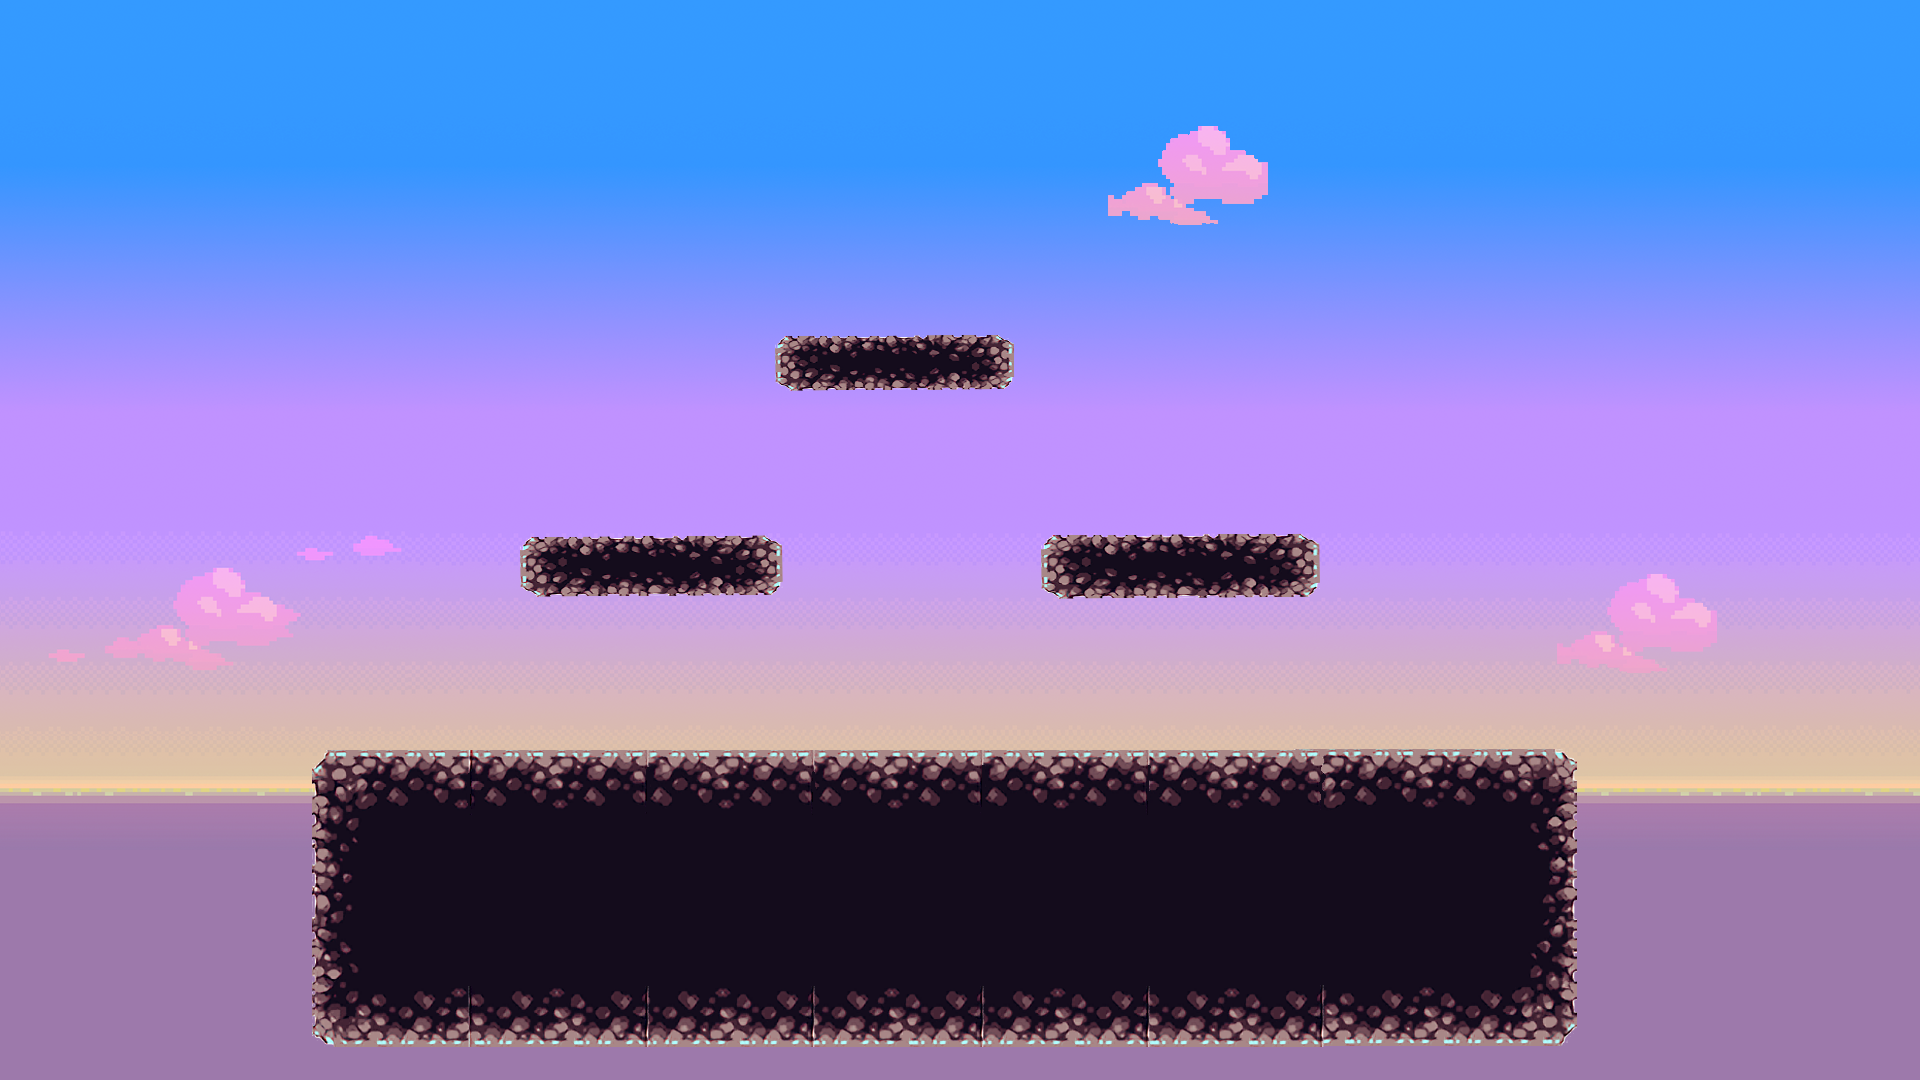
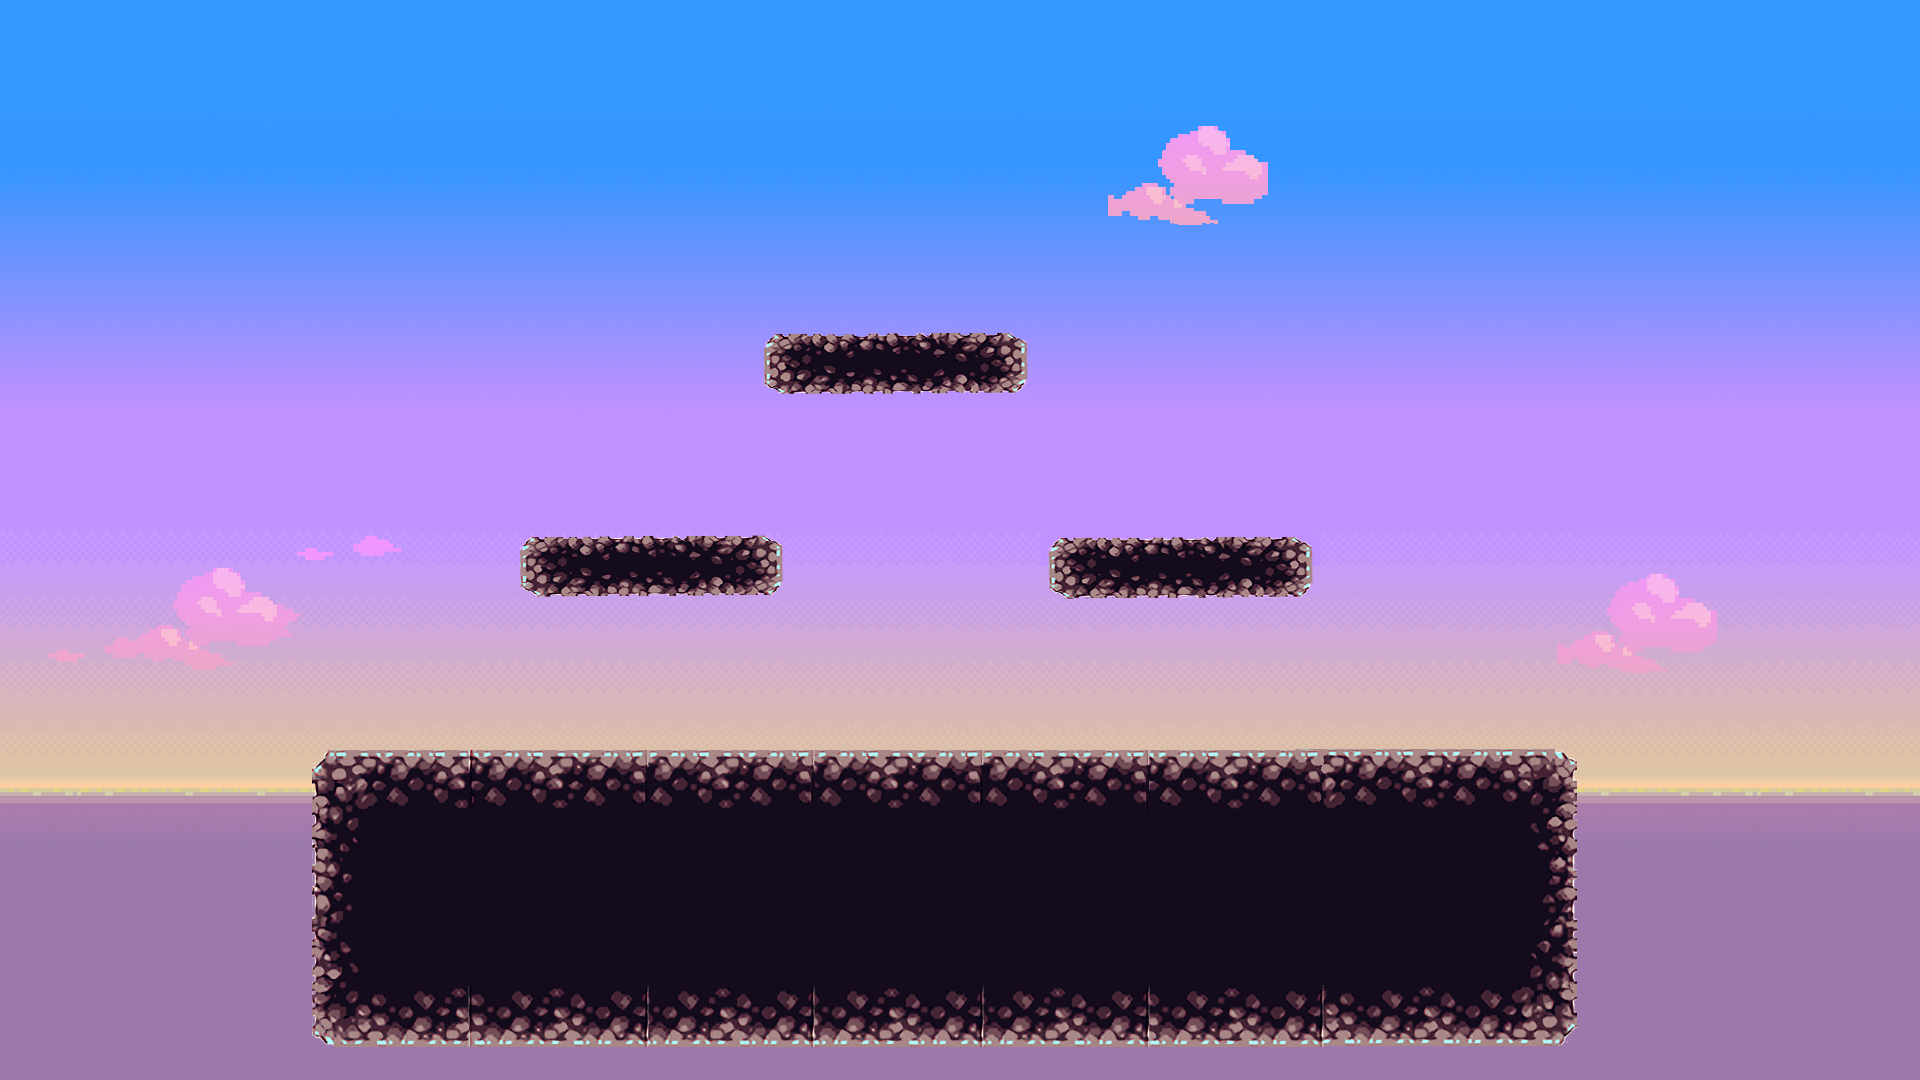
physique des 3 blocs

Changed region(s): [[0.5312, 0.4889, 0.6875, 0.55], [0.375, 0.3056, 0.5312, 0.3667]]

diff --git a/main.py b/main.py
@@ -215,6 +215,10 @@ while on:
 
         bloc_1 = pygame.Rect(521, 537, 260, 58)
         pygame.draw.rect(screen, red, bloc_1)
+        bloc_2 = pygame.Rect(1050, 539, 260, 58)
+        pygame.draw.rect(screen, red, bloc_2)
+        bloc_3 = pygame.Rect(765, 335, 260, 58)
+        pygame.draw.rect(screen, red, bloc_3)
 
         keys = pygame.key.get_pressed()
         for event in pygame.event.get():
@@ -348,14 +352,106 @@ while on:
         if pos_j2.x >= WINDOW_X-110:
             pos_j2 = pos_j2.move(-SIDE_MOVE, 0)
 
-        if pos_j1.x >= 521 and pos_j1.x <= 521+260 and pos_j1.y <= 537+58 and pos_j1.y >= 537:
-            pos_j1.y = 537+59
-        if pos_j1.x >= 521 and pos_j1.x <= 521+260 and pos_j1.y+84 <= 537+58 and pos_j1.y+84 >= 537:
-            pos_j1.y = 536-84
+        """bloc 1"""
+        if pos_j1.x+42 > bloc_1.x and pos_j1.x+42 < bloc_1.x+10 and pos_j1.y < bloc_1.y+58 and pos_j1.y+84 > bloc_1.y:
+            pos_j1.x = bloc_1.x-43
+
+        if pos_j1.x < bloc_1.x+260 and pos_j1.x > bloc_1.x+250 and pos_j1.y < bloc_1.y+58 and pos_j1.y+84 > bloc_1.y:
+            pos_j1.x = bloc_1.x+261
+
+        if pos_j1.x+42 >= bloc_1.x and pos_j1.x <= bloc_1.x+260 and pos_j1.y <= bloc_1.y+58 and pos_j1.y >= bloc_1.y:
+            pos_j1.y = bloc_1.y+59
+            jump_j1 = False
+
+        if pos_j1.x+42 >= bloc_1.x and pos_j1.x <= bloc_1.x+260 and pos_j1.y+84 <= bloc_1.y+58 and pos_j1.y+84 >= bloc_1.y:
+            pos_j1.y = bloc_1.y-84
             coef_jump_j1 = float(1)
             pass_j1 = True
             jump_j1 = True
+        
+        if pos_j2.x+42 > bloc_1.x and pos_j2.x+42 < bloc_1.x+10 and pos_j2.y < bloc_1.y+58 and pos_j2.y+84 > bloc_1.y:
+            pos_j2.x = bloc_1.x-43
 
+        if pos_j2.x < bloc_1.x+260 and pos_j2.x > bloc_1.x+250 and pos_j2.y < bloc_1.y+58 and pos_j2.y+84 > bloc_1.y:
+            pos_j2.x = bloc_1.x+261
+
+        if pos_j2.x+42 >= bloc_1.x and pos_j2.x <= bloc_1.x+260 and pos_j2.y <= bloc_1.y+58 and pos_j2.y >= bloc_1.y:
+            pos_j2.y = bloc_1.y+59
+            jump_j2 = False
+
+        if pos_j2.x+42 >= bloc_1.x and pos_j2.x <= bloc_1.x+260 and pos_j2.y+84 <= bloc_1.y+58 and pos_j2.y+84 >= bloc_1.y:
+            pos_j2.y = bloc_1.y-84
+            coef_jump_j2 = float(1)
+            pass_j2 = True
+            jump_j2 = True
+
+
+        """bloc 2"""
+        if pos_j1.x+42 > bloc_2.x and pos_j1.x+42 < bloc_2.x+10 and pos_j1.y < bloc_2.y+58 and pos_j1.y+84 > bloc_2.y:
+            pos_j1.x = bloc_2.x-43
+
+        if pos_j1.x < bloc_2.x+260 and pos_j1.x > bloc_2.x+250 and pos_j1.y < bloc_2.y+58 and pos_j1.y+84 > bloc_2.y:
+            pos_j1.x = bloc_2.x+261
+
+        if pos_j1.x+42 >= bloc_2.x and pos_j1.x <= bloc_2.x+260 and pos_j1.y <= bloc_2.y+58 and pos_j1.y >= bloc_2.y:
+            pos_j1.y = bloc_2.y+59
+            jump_j1 = False
+
+        if pos_j1.x+42 >= bloc_2.x and pos_j1.x <= bloc_2.x+260 and pos_j1.y+84 <= bloc_2.y+58 and pos_j1.y+84 >= bloc_2.y:
+            pos_j1.y = bloc_2.y-84
+            coef_jump_j1 = float(1)
+            pass_j1 = True
+            jump_j1 = True
+        
+        if pos_j2.x+42 > bloc_2.x and pos_j2.x+42 < bloc_2.x+10 and pos_j2.y < bloc_2.y+58 and pos_j2.y+84 > bloc_2.y:
+            pos_j2.x = bloc_2.x-43
+
+        if pos_j2.x < bloc_2.x+260 and pos_j2.x > bloc_2.x+250 and pos_j2.y < bloc_2.y+58 and pos_j2.y+84 > bloc_2.y:
+            pos_j2.x = bloc_2.x+261
+
+        if pos_j2.x+42 >= bloc_2.x and pos_j2.x <= bloc_2.x+260 and pos_j2.y <= bloc_2.y+58 and pos_j2.y >= bloc_2.y:
+            pos_j2.y = bloc_2.y+59
+            jump_j2 = False
+
+        if pos_j2.x+42 >= bloc_2.x and pos_j2.x <= bloc_2.x+260 and pos_j2.y+84 <= bloc_2.y+58 and pos_j2.y+84 >= bloc_2.y:
+            pos_j2.y = bloc_2.y-84
+            coef_jump_j2 = float(1)
+            pass_j2 = True
+            jump_j2 = True
+        
+
+        """bloc 3"""
+        if pos_j1.x+42 > bloc_3.x and pos_j1.x+42 < bloc_3.x+10 and pos_j1.y < bloc_3.y+58 and pos_j1.y+84 > bloc_3.y:
+            pos_j1.x = bloc_3.x-43
+
+        if pos_j1.x < bloc_3.x+260 and pos_j1.x > bloc_3.x+250 and pos_j1.y < bloc_3.y+58 and pos_j1.y+84 > bloc_3.y:
+            pos_j1.x = bloc_3.x+261
+
+        if pos_j1.x+42 >= bloc_3.x and pos_j1.x <= bloc_3.x+260 and pos_j1.y <= bloc_3.y+58 and pos_j1.y >= bloc_3.y:
+            pos_j1.y = bloc_3.y+59
+            jump_j1 = False
+
+        if pos_j1.x+42 >= bloc_3.x and pos_j1.x <= bloc_3.x+260 and pos_j1.y+84 <= bloc_3.y+58 and pos_j1.y+84 >= bloc_3.y:
+            pos_j1.y = bloc_3.y-84
+            coef_jump_j1 = float(1)
+            pass_j1 = True
+            jump_j1 = True
+        
+        if pos_j2.x+42 > bloc_3.x and pos_j2.x+42 < bloc_3.x+10 and pos_j2.y < bloc_3.y+58 and pos_j2.y+84 > bloc_3.y:
+            pos_j2.x = bloc_3.x-43
+
+        if pos_j2.x < bloc_3.x+260 and pos_j2.x > bloc_3.x+250 and pos_j2.y < bloc_3.y+58 and pos_j2.y+84 > bloc_3.y:
+            pos_j2.x = bloc_3.x+261
+
+        if pos_j2.x+42 >= bloc_3.x and pos_j2.x <= bloc_3.x+260 and pos_j2.y <= bloc_3.y+58 and pos_j2.y >= bloc_3.y:
+            pos_j2.y = bloc_3.y+59
+            jump_j2 = False
+
+        if pos_j2.x+42 >= bloc_3.x and pos_j2.x <= bloc_3.x+260 and pos_j2.y+84 <= bloc_3.y+58 and pos_j2.y+84 >= bloc_3.y:
+            pos_j2.y = bloc_3.y-84
+            coef_jump_j2 = float(1)
+            pass_j2 = True
+            jump_j2 = True
         #if pos_j1.x >= 521 and pos_j1.x <= 521+260 and pos_j1.y <= 537+58 and pos_j1.y >= 537:
         #    pos_j1 = pos_j1.move(0, 537+59)
         #if pos_j1.x >= 521 and pos_j1.x <= 521+260 and pos_j1.y <= 537+58 and pos_j1.y >= 537:
@@ -382,7 +478,9 @@ while on:
 
 
         #raffraichissement
-        pygame.draw.rect(screen, red, bloc_1)
+        #pygame.draw.rect(screen, red, bloc_1)
+        #pygame.draw.rect(screen, red, bloc_2)
+        #pygame.draw.rect(screen, red, bloc_3)
         pygame.display.flip()
 
         pygame.time.delay(16)
